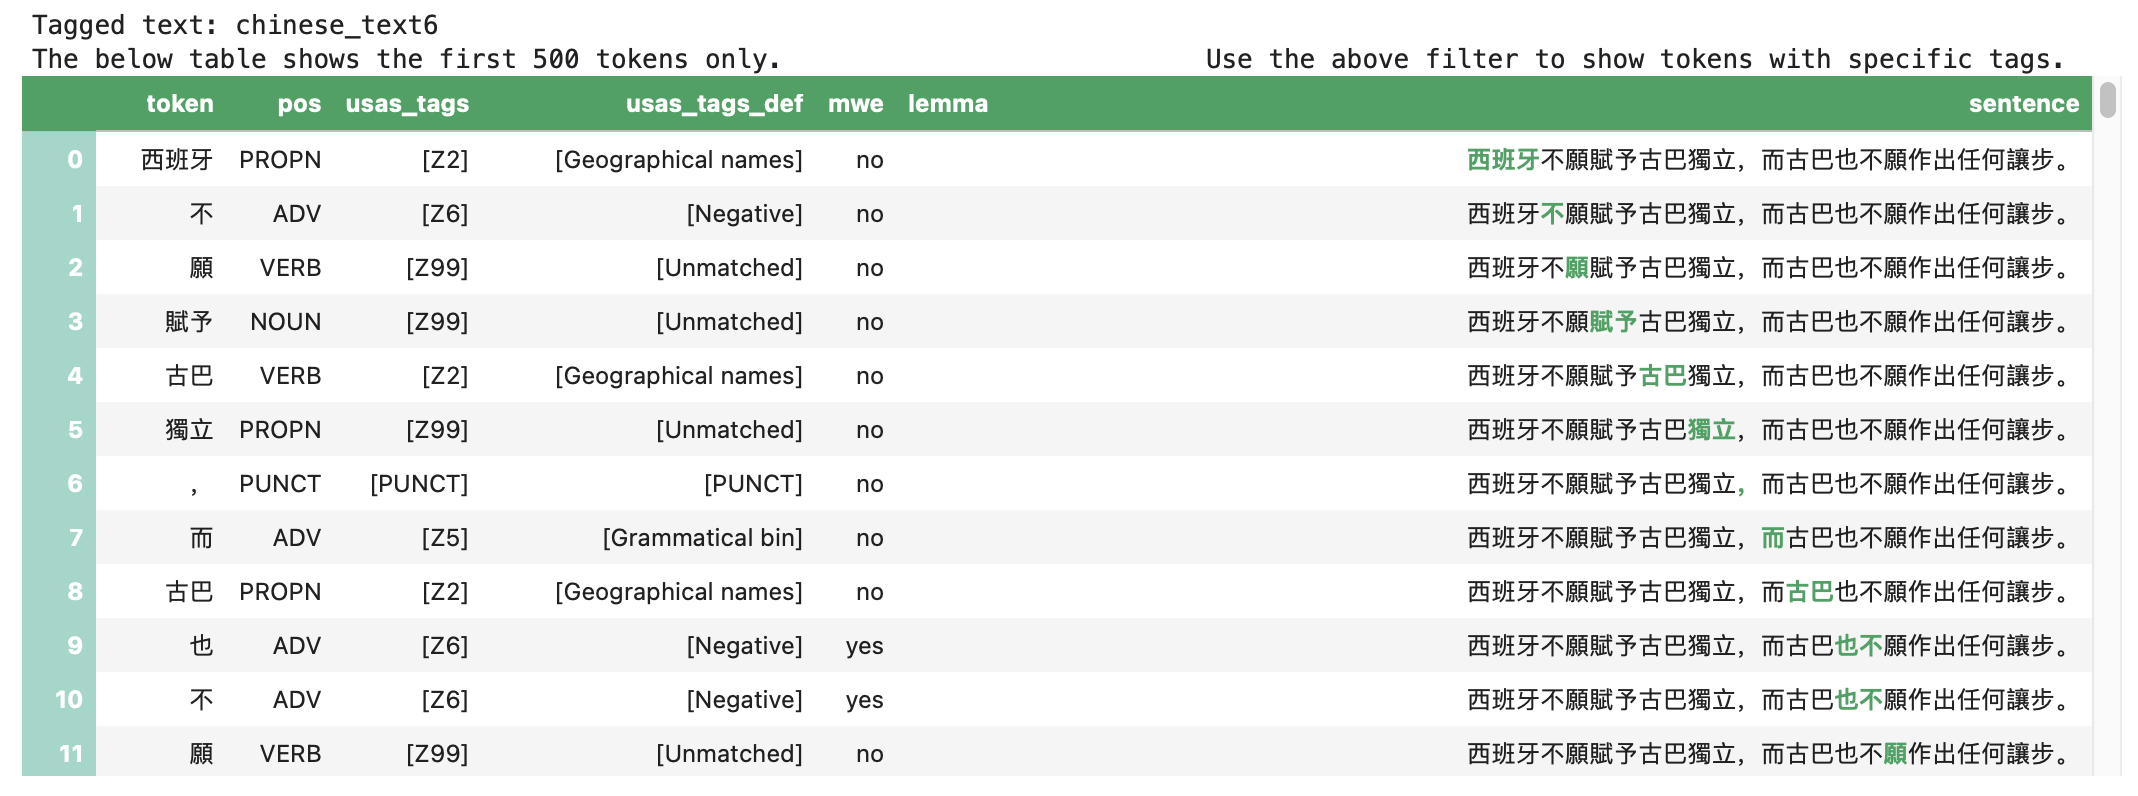
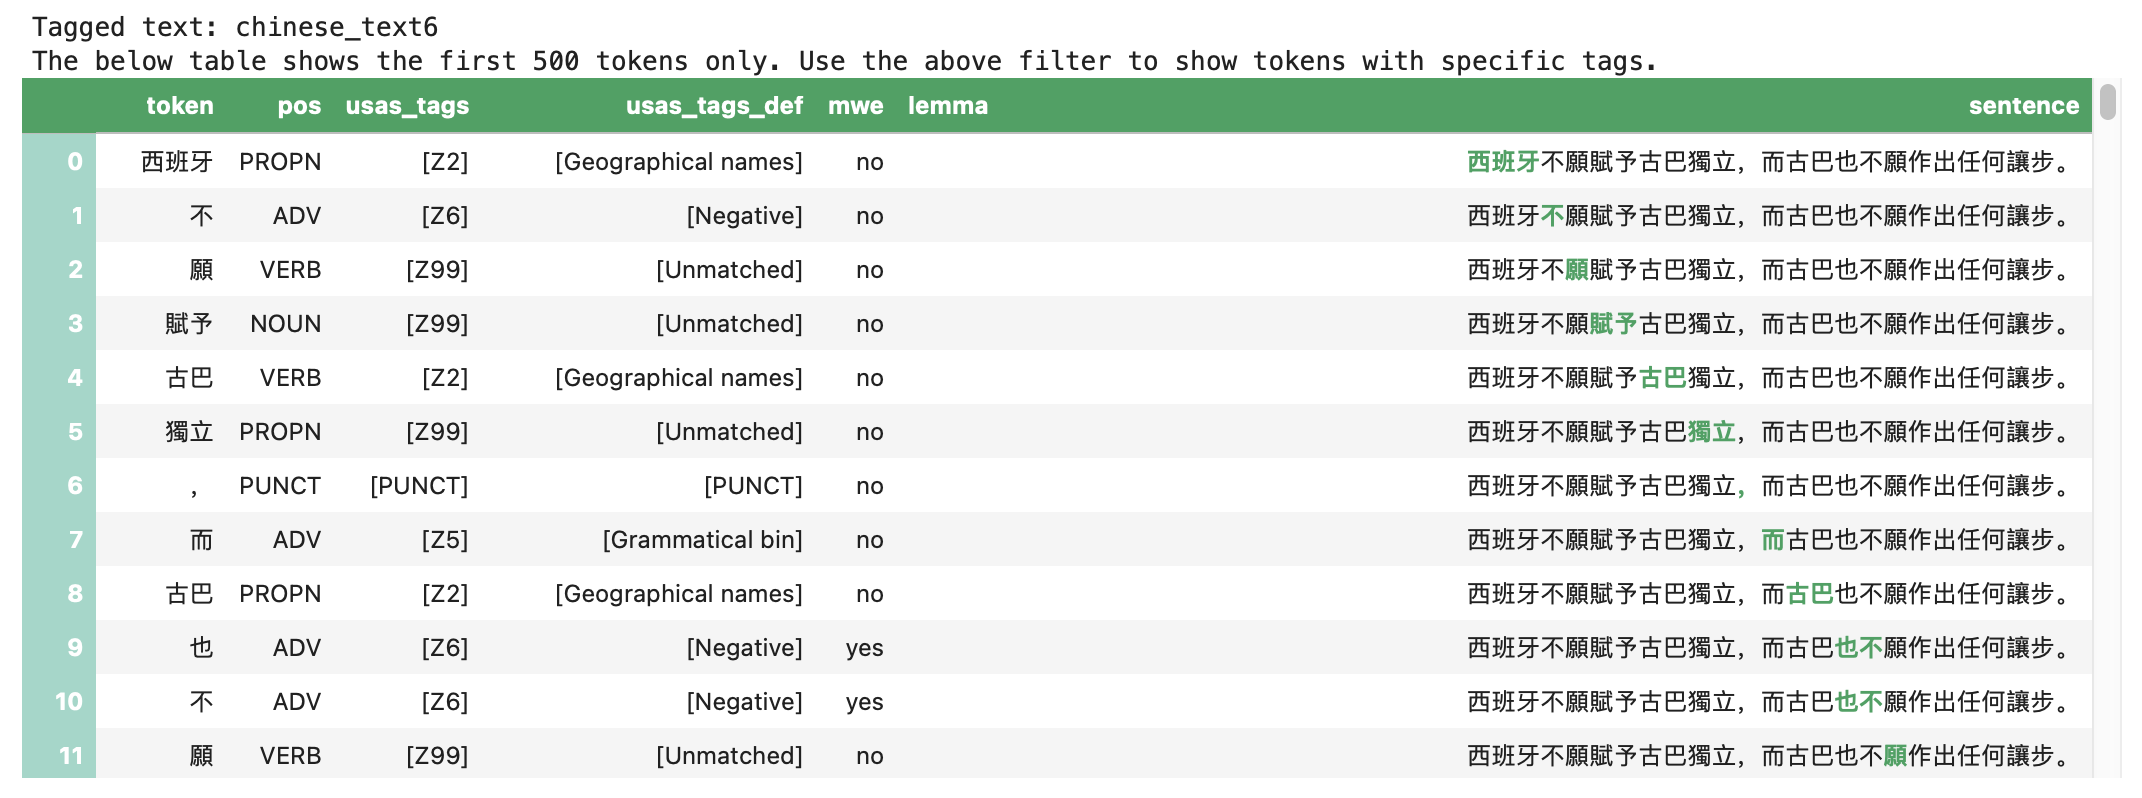
update

diff --git a/semantic_tagger.py b/semantic_tagger.py
@@ -808,8 +808,7 @@ class SemanticTagger():
                 # display in html format for styling purpose
                 if inc_usas==('all',) and inc_pos==('all',) and inc_mwe==('all',):
                     # only displays the first n tokens, with n defined by self.token_to_display
-                    print('The below table shows the first {} tokens only. \
-                          Use the above filter to show tokens with specific tags.'.format(self.token_to_display))
+                    print('The below table shows the first {} tokens only. Use the above filter to show tokens with specific tags.'.format(self.token_to_display))
                     df_html = self.df[left_right].head(self.token_to_display).to_html(escape=False)
                 else:
                     df_html = self.df[left_right].to_html(escape=False)
